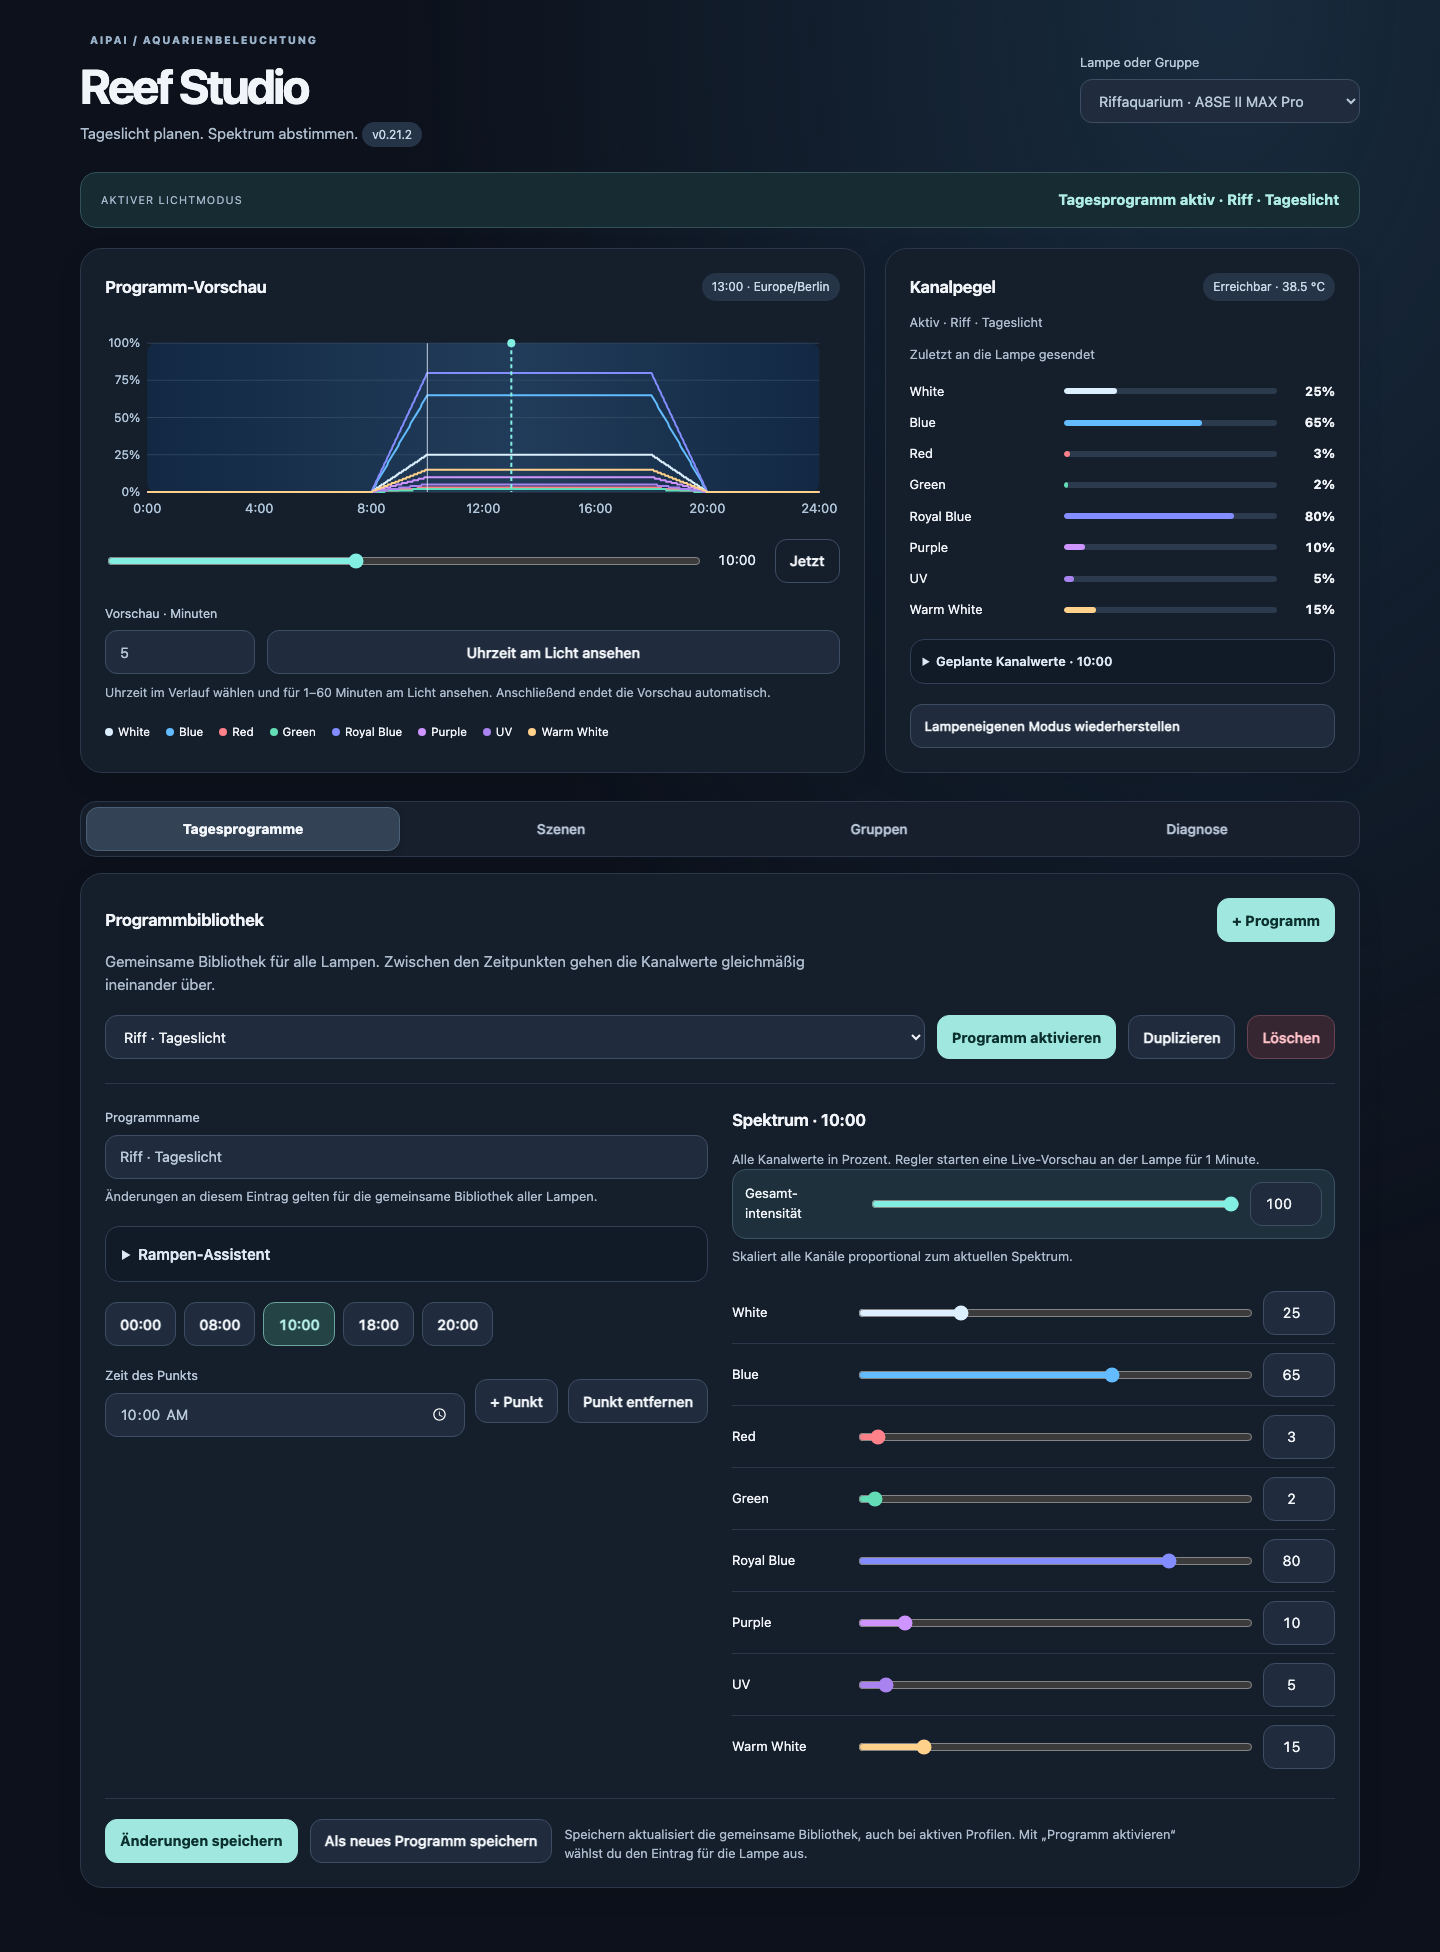
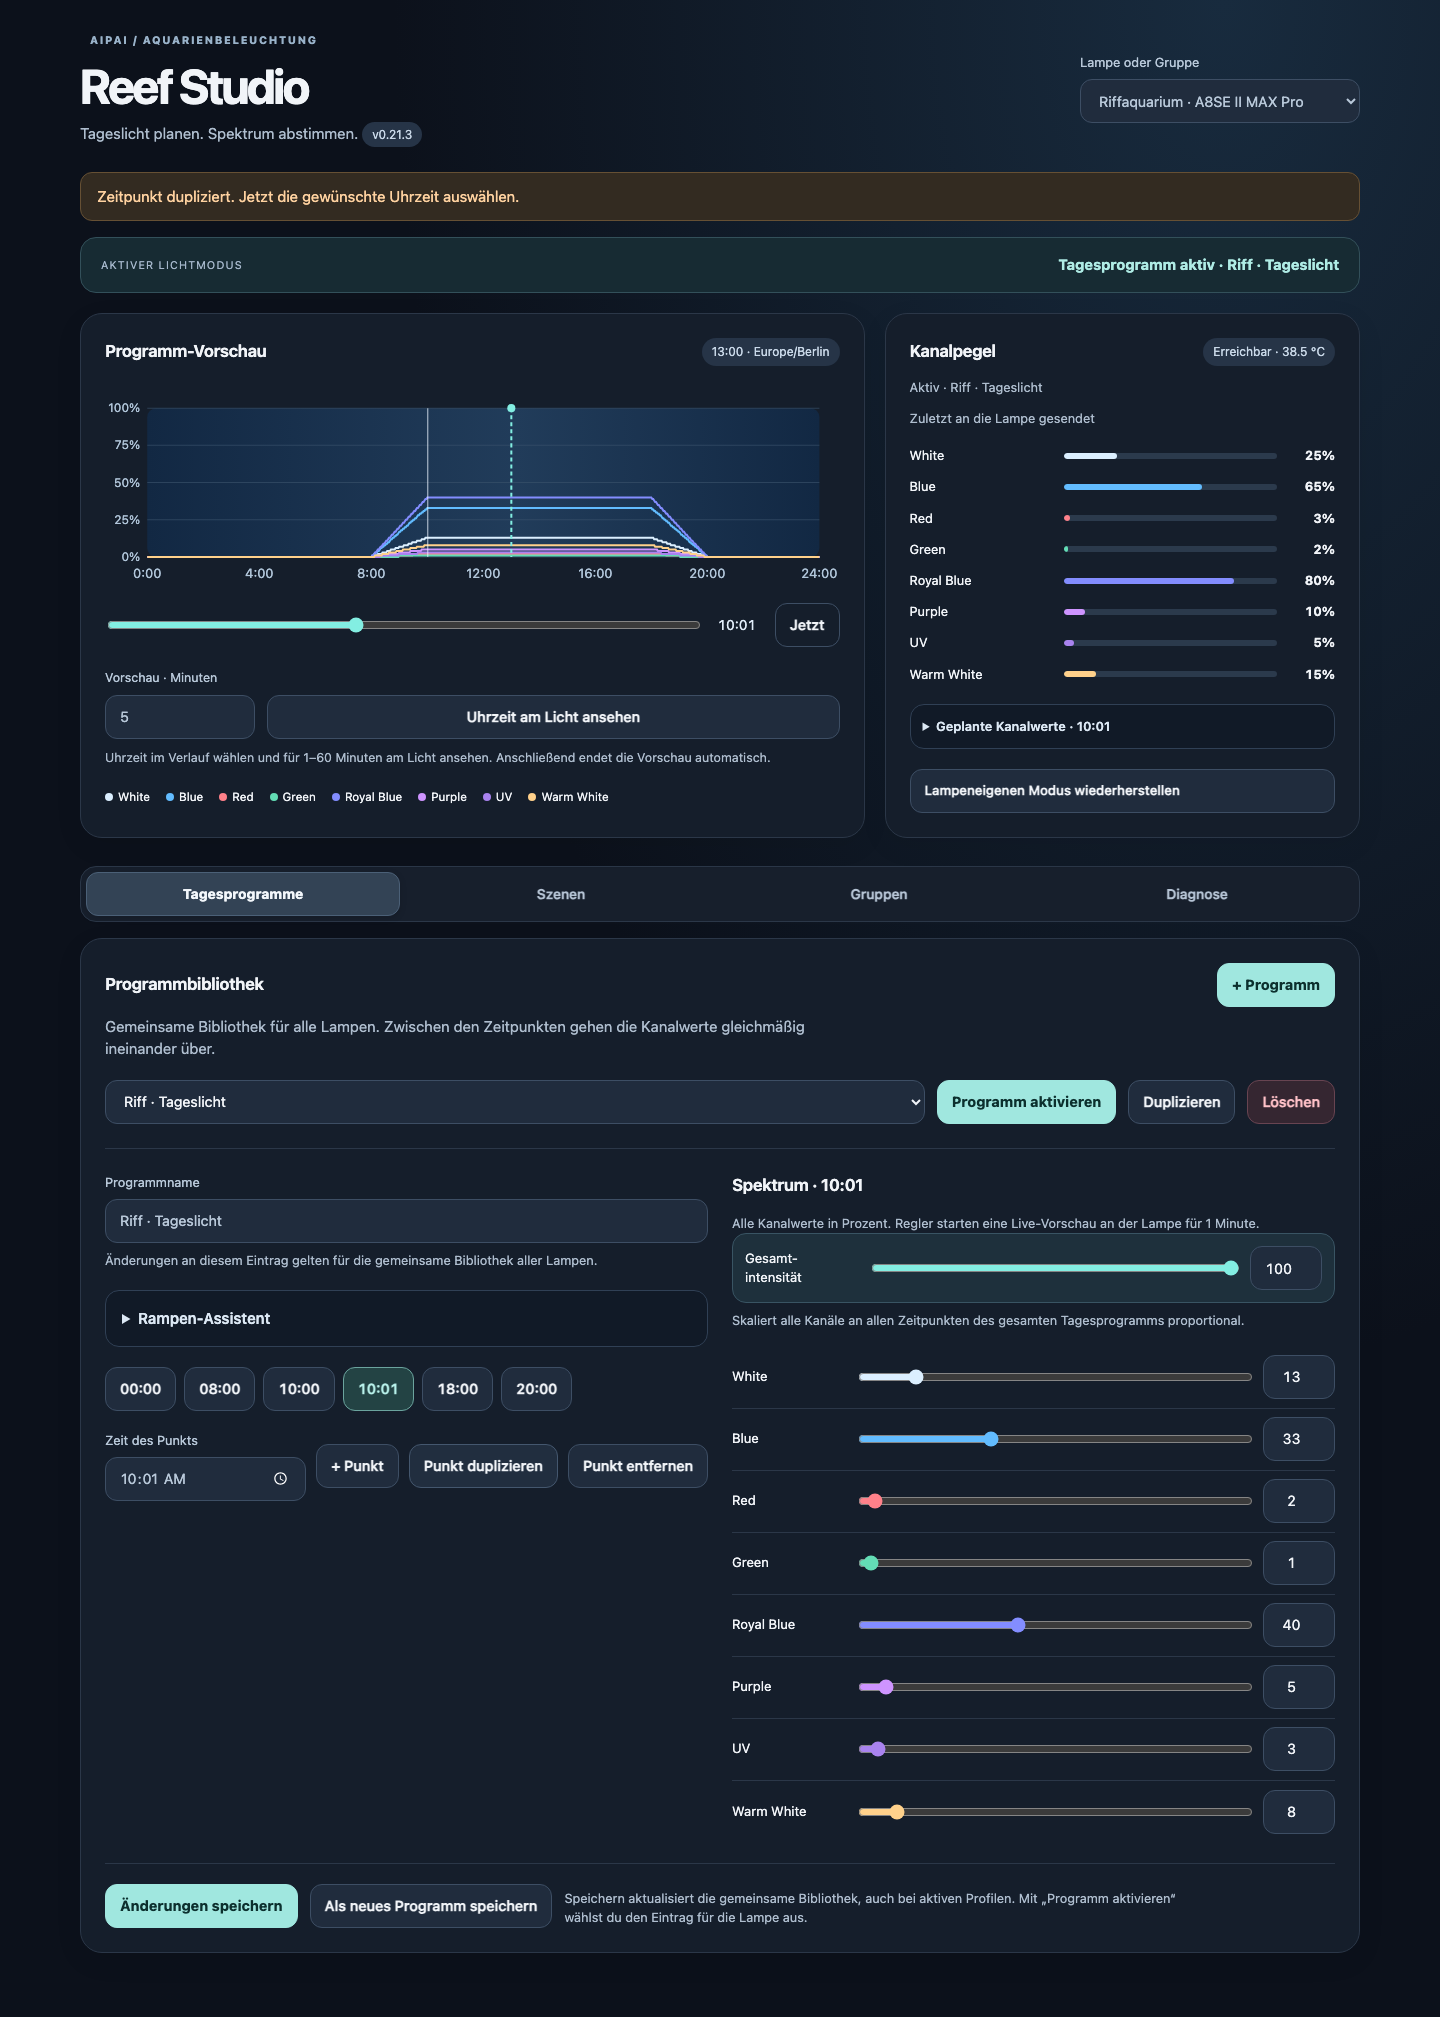
Scale full day profiles and duplicate points

diff --git a/custom_components/aipai_light/panel/reef-studio.js b/custom_components/aipai_light/panel/reef-studio.js
@@ -1,5 +1,5 @@
 const COLORS = ["#dbefff", "#62bcff", "#ff818a", "#63ddb5", "#838dff", "#ce94ff", "#a983ef", "#ffd18b"];
-const REEF_STUDIO_VERSION = "0.21.2";
+const REEF_STUDIO_VERSION = "0.21.3";
 const escape = value => String(value ?? "").replace(/[&<>"']/g, char =>
   ({ "&": "&amp;", "<": "&lt;", ">": "&gt;", '"': "&quot;", "'": "&#39;" })[char]);
 const clock = minute => [Math.floor(minute / 60), minute % 60].map(n => String(n).padStart(2, "0")).join(":");
@@ -231,6 +231,9 @@ class ReefStudioPanel extends HTMLElement {
     this.draft = null;
     this.point = 0;
     this.preview = null;
+    this.masterItem = null;
+    this.masterBase = null;
+    this.masterValue = 100;
   }
 
   status(message) {
@@ -526,11 +529,14 @@ class ReefStudioPanel extends HTMLElement {
     const node = this.$.querySelector("#draft");
     const point = programs ? item.points[this.point] : null;
     const levels = point?.levels ?? item.levels;
-    const masterKey = programs ? `point:${this.point}` : "scene";
-    if (this.masterKey !== masterKey) {
-      this.masterKey = masterKey;
-      this.masterBase = [...levels];
-    }
+    const resetMasterBase = () => {
+      this.masterItem = item;
+      this.masterBase = programs ? item.points.map(entry => [...entry.levels]) : [...levels];
+      this.masterValue = 100;
+    };
+    // A day program has one global intensity reference. Switching between
+    // points must not turn the control back into a point-only adjustment.
+    if (this.masterItem !== item || !this.masterBase) resetMasterBase();
     node.innerHTML = `<div class="edit-grid"><div>
       <label class="field">${programs ? "Programmname" : "Szenenname"}<input id="name" maxlength="64" required placeholder="${programs ? "z. B. Riff · Tageslicht" : "z. B. Blaulicht"}" value="${escape(item.name)}"></label>
       <small>Änderungen an diesem Eintrag gelten für die gemeinsame Bibliothek aller Lampen.</small>
@@ -546,11 +552,12 @@ class ReefStudioPanel extends HTMLElement {
           `<button data-point="${index}" aria-pressed="${this.point === index}">${clock(p.minute)}</button>`).join("")}</div>
         <div class="row"><label class="field">Zeit des Punkts<input id="point-time" type="time" value="${clock(point.minute)}"></label>
           <button id="add" ${item.points.length >= 48 ? "disabled" : ""}>+ Punkt</button>
+          <button id="duplicate-point" ${item.points.length >= 48 ? "disabled" : ""}>Punkt duplizieren</button>
           <button id="remove" ${item.points.length <= 2 ? "disabled" : ""}>Punkt entfernen</button></div>` : ""}
       </div><div><h2>${programs ? `Spektrum · ${clock(point.minute)}` : "Spektrum der Szene"}</h2>
         <small>Alle Kanalwerte in Prozent. ${this.light.group ? "Zum Prüfen ein Programm über die Uhrzeit-Vorschau ansehen oder eine gespeicherte Szene starten." : `Regler starten eine Live-Vorschau an der Lampe für ${programs ? "1 Minute" : "5 Minuten"}.`}</small>
-        ${programs ? `<label class="slider" style="--c:#83eee2"><span>Gesamt-<br>intensität</span><input id="master-level" type="range" min="0" max="100" value="100" aria-label="Gesamtintensität">
-          <input id="master-value" type="number" min="0" max="100" step="1" value="100" aria-label="Gesamtintensität Prozent"></label><small>Skaliert alle Kanäle proportional zum aktuellen Spektrum.</small>` : ""}
+        ${programs ? `<label class="slider" style="--c:#83eee2"><span>Gesamt-<br>intensität</span><input id="master-level" type="range" min="0" max="100" value="${this.masterValue}" aria-label="Gesamtintensität des gesamten Tagesprogramms">
+          <input id="master-value" type="number" min="0" max="100" step="1" value="${this.masterValue}" aria-label="Gesamtintensität des gesamten Tagesprogramms in Prozent"></label><small>Skaliert alle Kanäle an allen Zeitpunkten des gesamten Tagesprogramms proportional.</small>` : ""}
         <div class="sliders">${this.light.labels.map((label, i) => `<label class="slider" style="--c:${COLORS[i]}">
           <span>${escape(label)}</span><input type="range" min="0" max="100" value="${levels[i]}" data-level="${i}" aria-label="${escape(label)}">
           <input type="number" min="0" max="100" step="1" value="${levels[i]}" data-level="${i}" aria-label="${escape(label)} Prozent"></label>`).join("")}</div>
@@ -565,9 +572,10 @@ class ReefStudioPanel extends HTMLElement {
         node.querySelectorAll(`[data-level="${input.dataset.level}"]`).forEach(peer => {
           if (peer !== input) peer.value = input.value;
         });
-        // Subsequent master adjustments use this newly fine-tuned mix as their
-        // neutral 100 % reference.
-        this.masterBase = [...levels];
+        // A manual channel change becomes the new neutral 100 % reference for
+        // the complete profile, not only for the selected point.
+        this.masterBase = programs ? item.points.map(entry => [...entry.levels]) : [...levels];
+        this.masterValue = 100;
         const masterLevel = node.querySelector("#master-level");
         const masterValue = node.querySelector("#master-value");
         if (masterLevel) masterLevel.value = 100;
@@ -581,7 +589,11 @@ class ReefStudioPanel extends HTMLElement {
     const masterValue = node.querySelector("#master-value");
     const applyMaster = value => {
       if (!Number.isInteger(value) || value < 0 || value > 100) return;
-      levels.splice(0, levels.length, ...this.masterBase.map(level => Math.round(level * value / 100)));
+      item.points.forEach((entry, index) => {
+        entry.levels.splice(0, entry.levels.length,
+          ...this.masterBase[index].map(level => Math.round(level * value / 100)));
+      });
+      this.masterValue = value;
       node.querySelectorAll("[data-level]").forEach(input => { input.value = levels[input.dataset.level]; });
       if (masterLevel) masterLevel.value = value;
       if (masterValue) masterValue.value = value;
@@ -623,11 +635,23 @@ class ReefStudioPanel extends HTMLElement {
       const added = { minute, levels: interpolate(item.points, minute), curve: "linear" };
       item.points = sorted([...item.points, added]);
       this.point = item.points.indexOf(added);
+      resetMasterBase();
       showPoint();
+    };
+    node.querySelector("#duplicate-point").onclick = () => {
+      let minute = (point.minute + 1) % 1440;
+      while (item.points.some(entry => entry.minute === minute)) minute = (minute + 1) % 1440;
+      const duplicate = { ...point, minute, levels: [...point.levels], curve: "linear" };
+      item.points = sorted([...item.points, duplicate]);
+      this.point = item.points.indexOf(duplicate);
+      resetMasterBase();
+      showPoint();
+      this.status("Zeitpunkt dupliziert. Jetzt die gewünschte Uhrzeit auswählen.");
     };
     node.querySelector("#remove").onclick = () => {
       item.points.splice(this.point, 1);
       this.point = Math.min(this.point, item.points.length - 1);
+      resetMasterBase();
       showPoint();
     };
     node.querySelector("#ramp").onclick = () => {
@@ -648,6 +672,7 @@ class ReefStudioPanel extends HTMLElement {
         { minute: set + down, levels: [...zero], curve: "linear" },
       ];
       this.point = 1;
+      resetMasterBase();
       this.status("");
       showPoint();
     };

diff --git a/custom_components/aipai_light/panel.py b/custom_components/aipai_light/panel.py
@@ -48,7 +48,7 @@ async def async_register_studio_panel(hass: HomeAssistant) -> None:
         return
     await register(
         hass, "reef-studio", "aipai-reef-studio", sidebar_title="Reef Studio",
-        sidebar_icon="mdi:chart-bell-curve", module_url=f"{url}?v=24",
+        sidebar_icon="mdi:chart-bell-curve", module_url=f"{url}?v=25",
         require_admin=True, embed_iframe=False,
     )
     hass.data[_STUDIO_REGISTERED_KEY] = True

diff --git a/reef-bridge/README.md b/reef-bridge/README.md
@@ -1,6 +1,6 @@
 # AIPAI Reef Bridge für ESP32
 
-Firmware **0.2.1** mit demselben Reef-Studio-Editor wie Home Assistant. Tagesprogramme, Szenen und Gruppen laufen lokal auf dem ESP32. Home Assistant ist optional. Experimenteller Stand: Builds und simulierte Browsertests sind geprüft; der Betrieb mit mehreren echten Lampen benötigt noch einen Hardware-Dauertest.
+Firmware **0.2.2** mit demselben Reef-Studio-Editor wie Home Assistant. Tagesprogramme, Szenen und Gruppen laufen lokal auf dem ESP32. Home Assistant ist optional. Experimenteller Stand: Builds und simulierte Browsertests sind geprüft; der Betrieb mit mehreren echten Lampen benötigt noch einen Hardware-Dauertest.
 
 ![Reef Studio auf der Bridge](docs/bridge-desktop.png)
 
@@ -14,7 +14,7 @@ Firmware **0.2.1** mit demselben Reef-Studio-Editor wie Home Assistant. Tagespro
 
 ## Gemeinsame Bedienung
 
-- Identischer Editor und identisches Design mit der HA-Integration: grafischer Tagesverlauf, Stützpunkte mit Uhrzeit, lineare Übergänge, Rampen-Assistent und proportionaler Gesamtintensitätsregler.
+- Identischer Editor und identisches Design mit der HA-Integration: grafischer Tagesverlauf, duplizierbare Stützpunkte mit Uhrzeit, lineare Übergänge, Rampen-Assistent und ein proportionaler Gesamtintensitätsregler für das vollständige Tagesprofil.
 - Gemeinsame lokale Programm- und Szenenbibliothek für alle Lampen dieser Bridge. Neue Einträge, Bearbeiten, Duplizieren, Löschen und Aktivieren. Bis 32 Programme und 32 Szenen, insgesamt maximal 48 KB JSON bzw. die verfügbare Parser-Kapazität; größere Änderungen werden mit Fehlermeldung abgelehnt.
 - Bis zu vier Lampen im selben Netz; jeweils Name, IP, Seriennummer, 6/8 Kanäle und POSIX-Zeitzone. Bis 16 Gruppen, auch mit nur einer Lampe. Eine gemischte Gruppe zeigt alle acht Kanäle; UV und Warm White wirken nur auf Achtkanal-Lampen. Sechskanal-Lampen ignorieren die zusätzlichen Werte. MAX-Profile bleiben beim Bearbeiten an Sechskanal-Lampen vollständig erhalten.
 - Programme laufen lokal, ohne offenen Browser oder Home Assistant. Jede Lampe hat einen eigenen aktiven Eintrag und eigene Timer. Ein Profilwechsel einer Lampe ändert nicht automatisch die Auswahl einer anderen Lampe.

diff --git a/CHANGELOG.md b/CHANGELOG.md
@@ -2,6 +2,16 @@
 
 Alle nennenswerten Änderungen dieses Projekts werden hier dokumentiert.
 
+## [0.21.3] - 2026-11-07
+
+### Added
+
+- Zeitpunkte eines Tagesprogramms lassen sich duplizieren. Die Kopie übernimmt sämtliche Kanalverhältnisse und wird auf die nächste freie Minute gelegt, damit anschließend nur die Zielzeit angepasst werden muss.
+
+### Changed
+
+- Die Gesamtintensität skaliert jetzt proportional alle Kanäle an allen Zeitpunkten des vollständigen Tagesprogramms. Der eingestellte Faktor bleibt beim Wechsel zwischen Stützpunkten erhalten. Gilt für HA und Reef Bridge 0.2.2.
+
 ## [0.21.2] - 2026-11-07
 
 ### Fixed

diff --git a/reef-bridge/CHANGELOG.md b/reef-bridge/CHANGELOG.md
@@ -1,5 +1,10 @@
 # Reef Bridge Changelog
 
+## [0.2.2] - 2026-11-07
+
+- Gesamtintensität skaliert das komplette Tagesprogramm statt nur des ausgewählten Zeitpunkts.
+- Zeitpunkte können mitsamt allen Kanalwerten dupliziert und anschließend auf eine neue Uhrzeit gelegt werden. Gemeinsamer Editor mit HA 0.21.3.
+
 ## [0.2.1] - 2026-11-07
 
 - Gemischte Gruppen bieten alle acht Kanäle. UV und Warm White wirken nur auf MAX-Lampen; Sechskanal-Lampen erhalten ausschließlich ihre sechs Werte. Gemeinsamer Editor mit HA 0.21.2.
